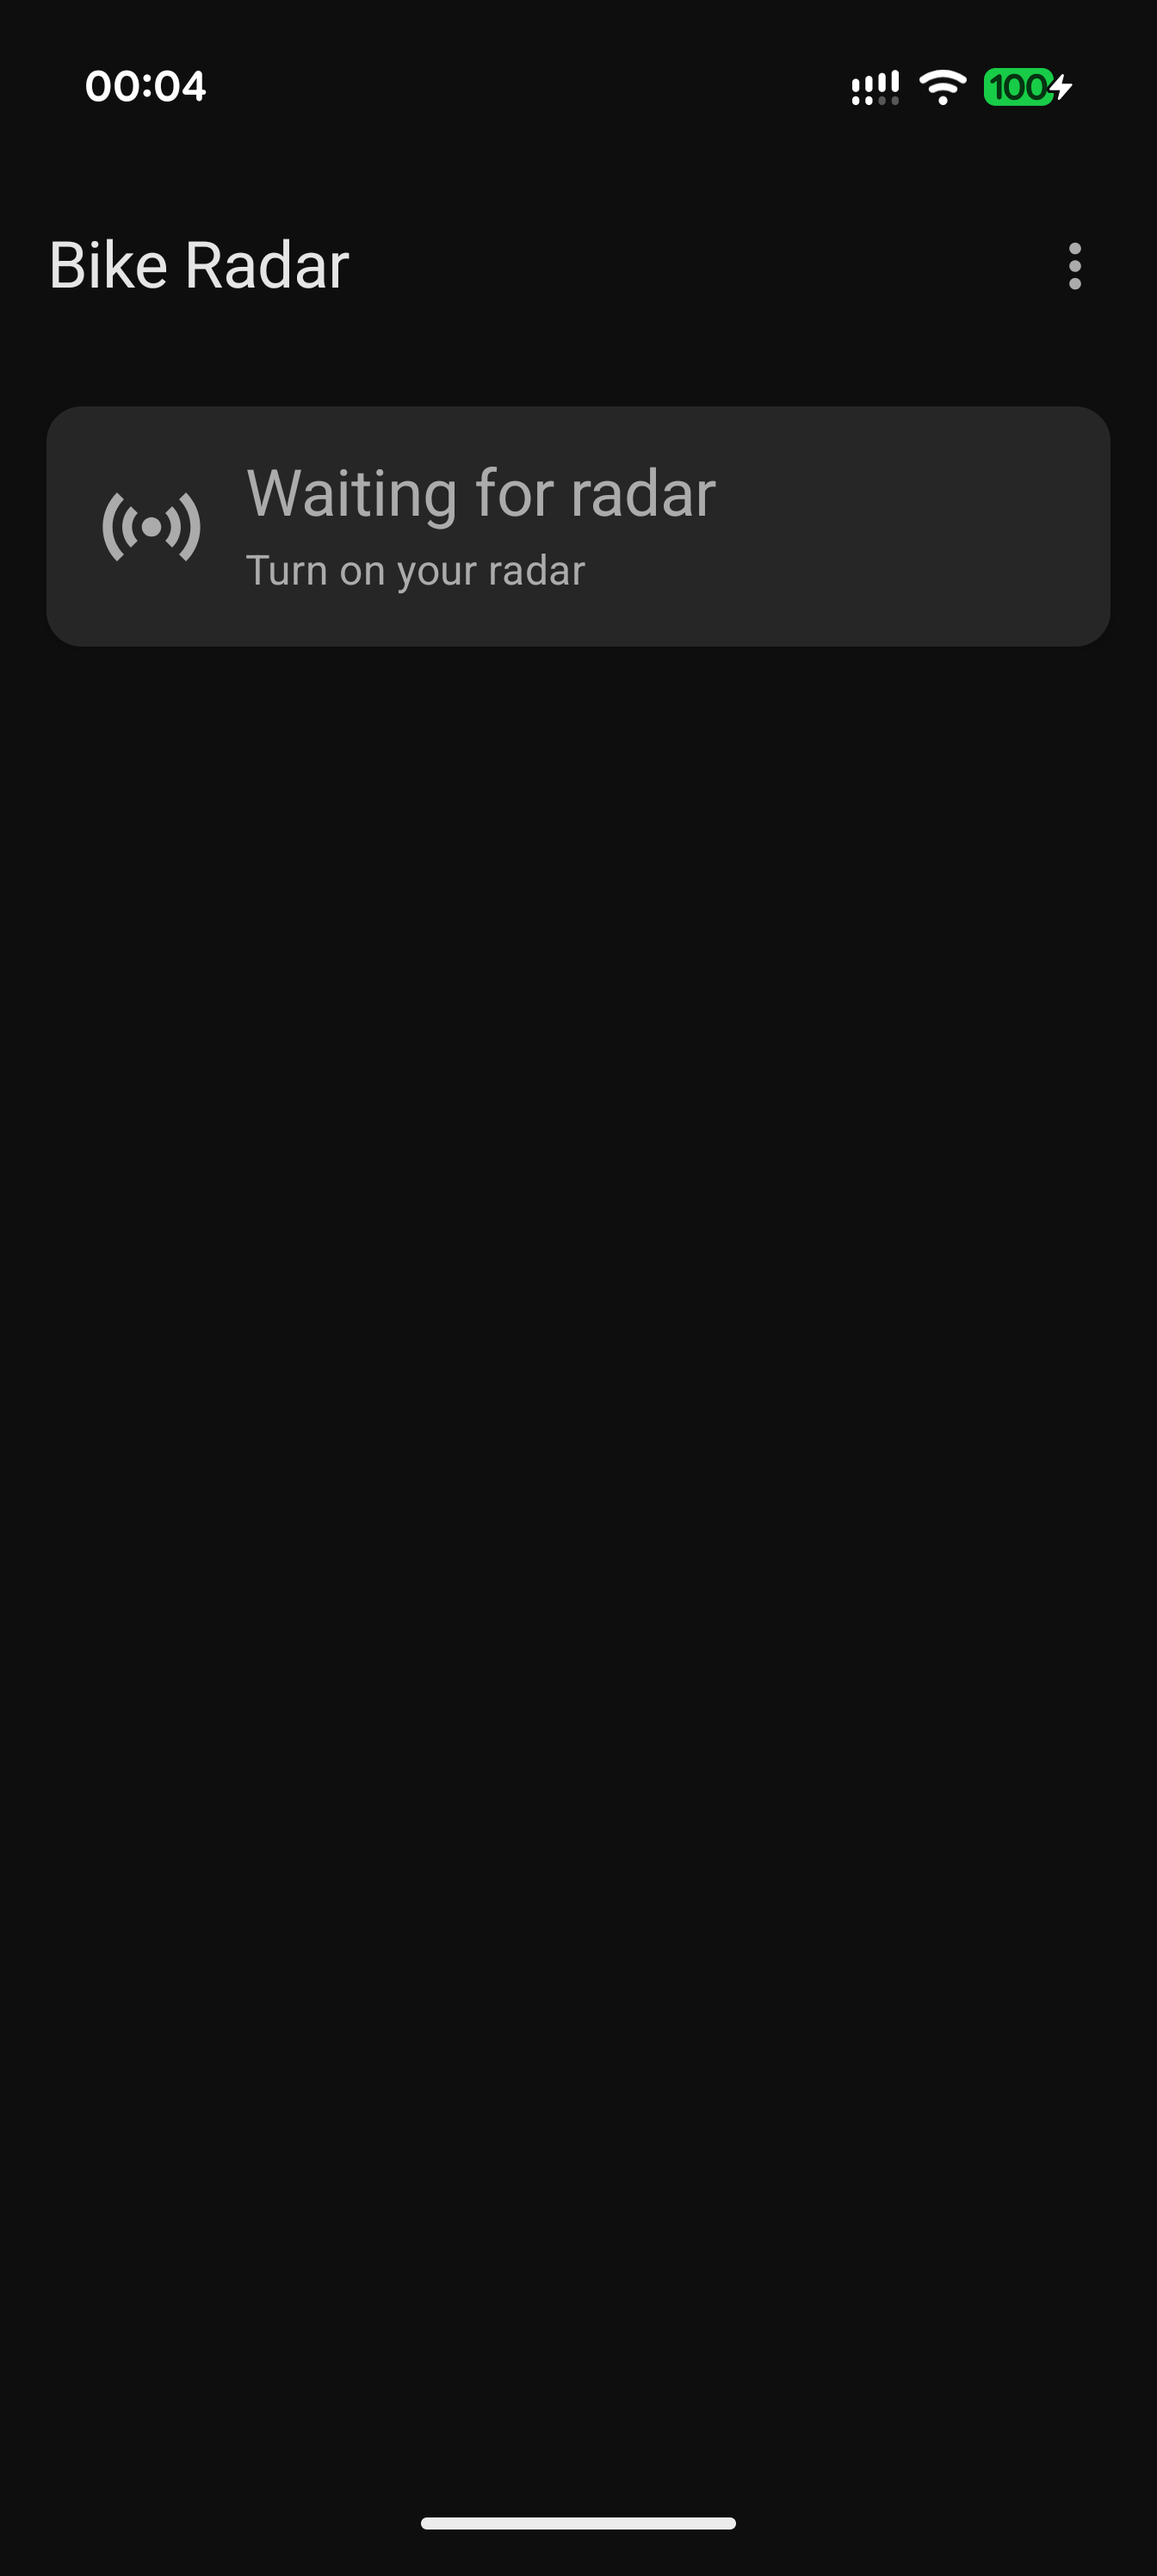
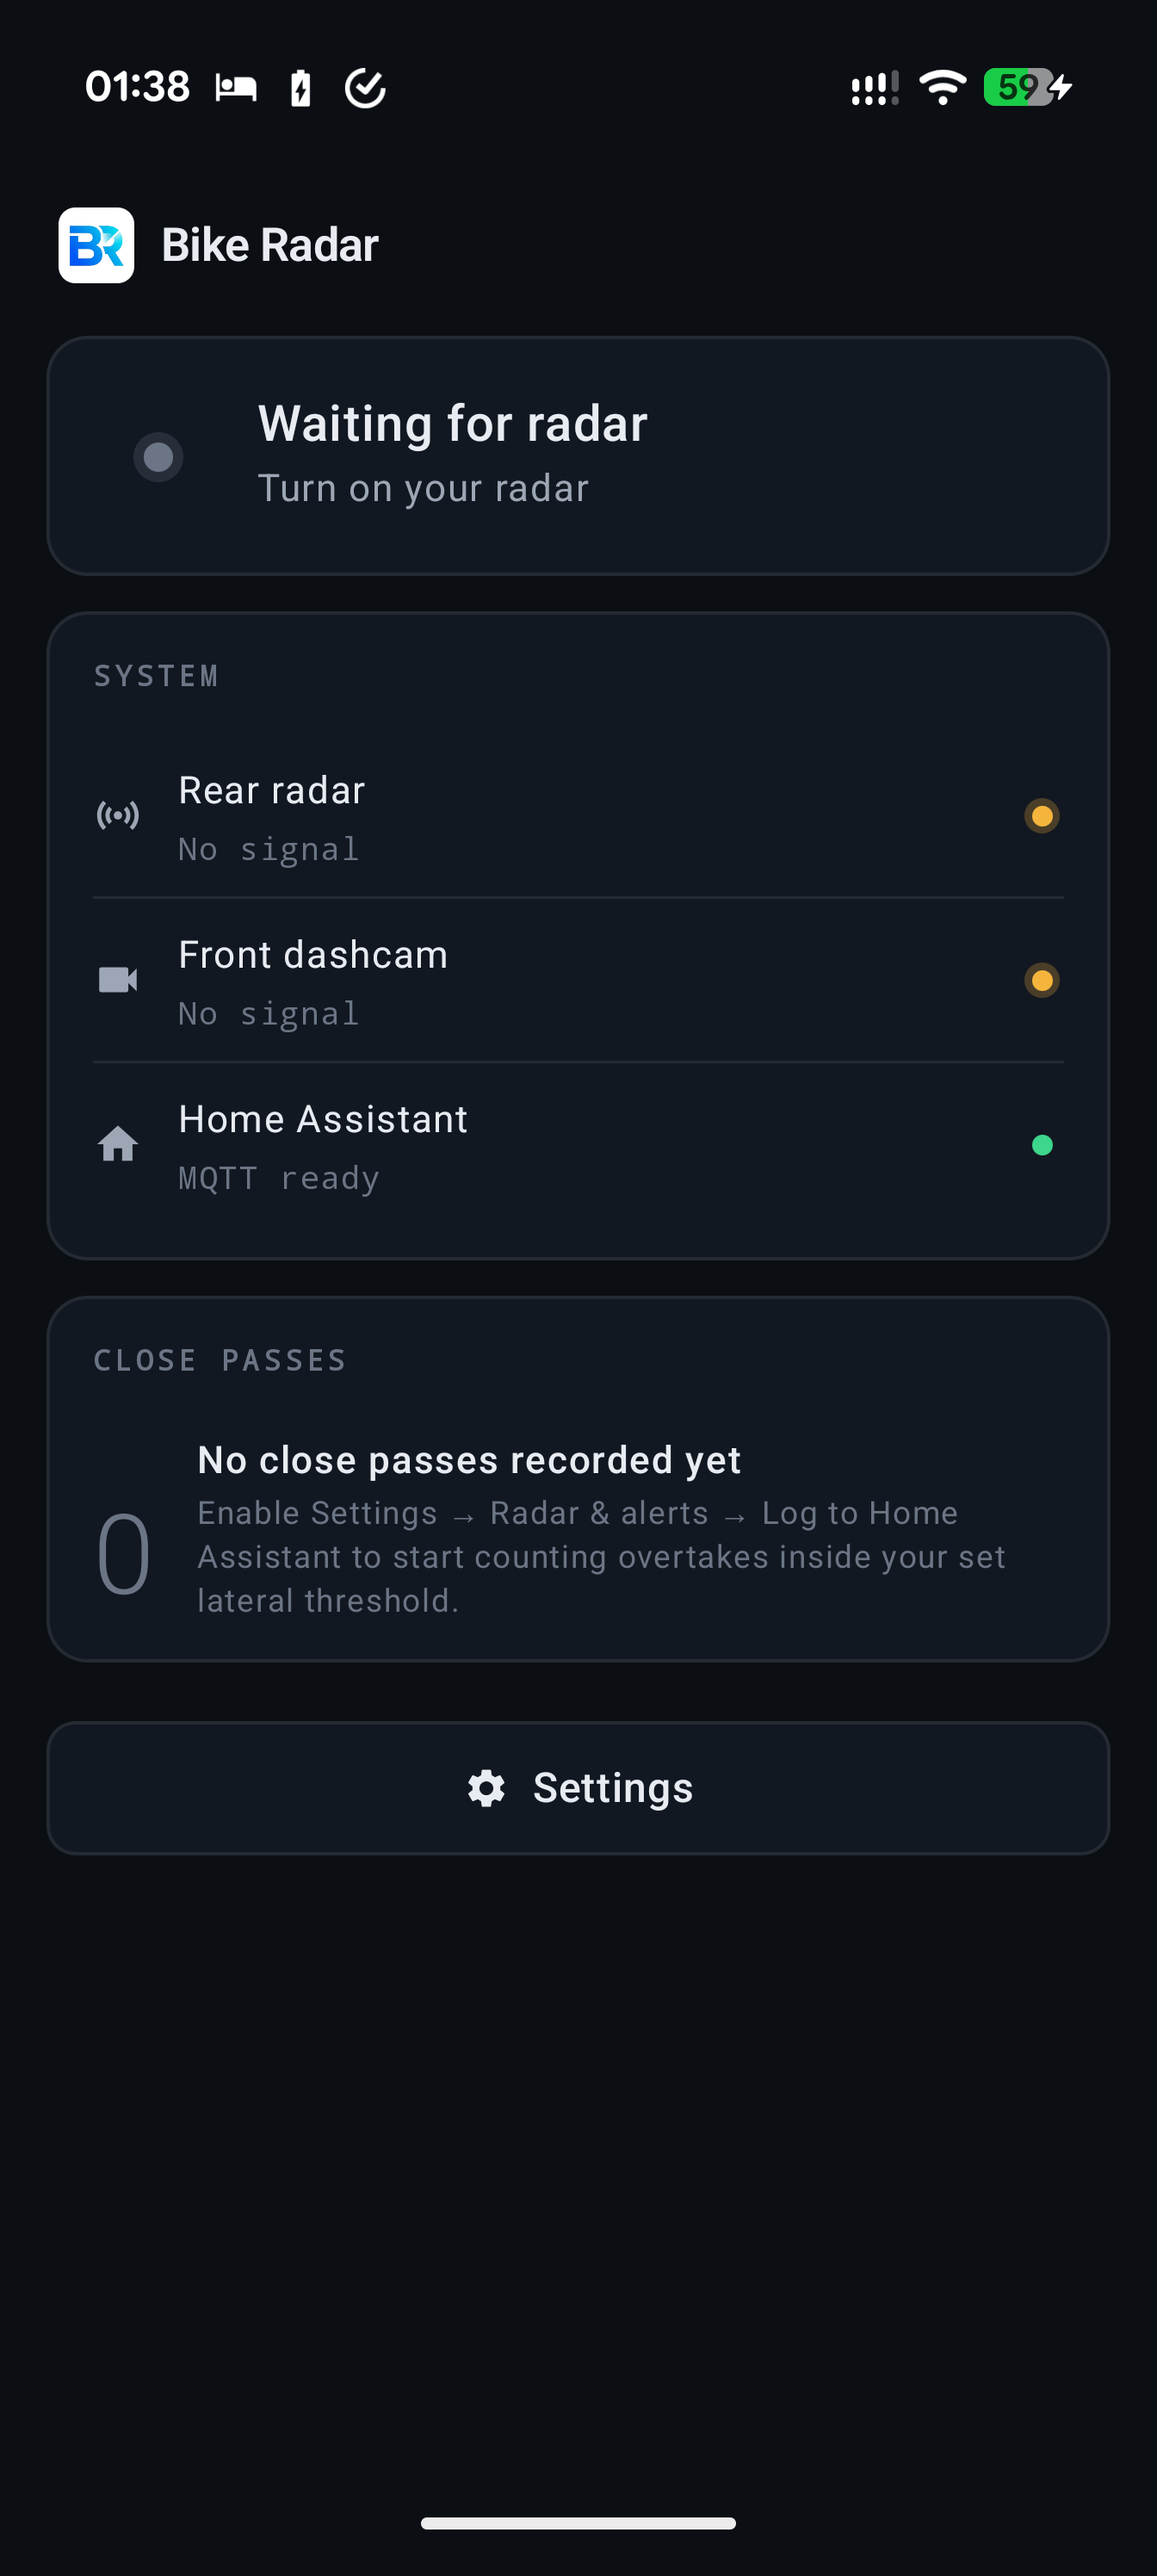
Default the redesigned Main + Settings on, refresh screenshots
Flip `nextUxMain` and `nextUxSettings` to default true. The redesigned
Main + Settings home + sub-screens have been on the device for several
rides without regressions; the flags remain in place for fall-back to
V1 if needed.

`nextUxOnboarding` stays default-off. The redesigned onboarding flow
hasn't been tested at all yet — it's only reachable from a fresh
install or by clearing app data, neither of which has been exercised.

Existing users who have explicitly toggled either flag keep their
explicit value; the only people affected by the flip are fresh
installs and users who never opened the Debug toggle.

Refresh the README screenshot grid:

* Old grid was 8 V1 screens; the redesign exposes 11 distinct
  surfaces (main, settings home, radar & alerts, dashcam, HA,
  permissions, experimental, debug, about, licences, privacy).

* Filenames lose the `settings-` prefix where it was redundant.
  HA screenshot redacts the personal URL to
  `https://homeassistant.local:8123`; bonded device names
  (`VUE-…`, `RearVue8`) are kept since they're public vendor
  model identifiers and the old screenshot set already
  established that convention.

diff --git a/app/src/main/java/es/jjrh/bikeradar/data/Prefs.kt b/app/src/main/java/es/jjrh/bikeradar/data/Prefs.kt
@@ -172,23 +172,24 @@ class Prefs(context: Context) {
         get() = sp.getInt(KEY_CLOSE_PASS_CLOSING_FLOOR_MS, 6).coerceIn(3, 15)
         set(v) { sp.edit().putInt(KEY_CLOSE_PASS_CLOSING_FLOOR_MS, v.coerceIn(3, 15)).apply() }
 
-    /** Per-screen feature flags for the in-progress UX redesign. When
-     *  true, the corresponding NavHost route renders the Next composable
-     *  instead of the original. Default off so freshly-installed builds
-     *  always show the stable UX; the user opts into each redesigned
-     *  screen via the Debug screen, can flip back at any time, and the
-     *  flag (plus the V1 code path) is removed once the screen is
-     *  graduated. */
+    /** Per-screen feature flags for the UX redesign. When true, the
+     *  corresponding NavHost route renders the Next composable instead
+     *  of the original. The user can flip any of these from the Debug
+     *  screen, and each flag (plus its V1 code path) is removed once
+     *  the screen is fully graduated. Defaults reflect the current
+     *  shipping state: Main + Settings (and Debug, which rides the
+     *  Settings flag) ship redesigned; Onboarding still defaults to
+     *  the original flow until it has been ride-tested. */
     var nextUxOnboarding: Boolean
         get() = sp.getBoolean(KEY_NEXT_UX_ONBOARDING, false)
         set(v) { sp.edit().putBoolean(KEY_NEXT_UX_ONBOARDING, v).apply() }
 
     var nextUxMain: Boolean
-        get() = sp.getBoolean(KEY_NEXT_UX_MAIN, false)
+        get() = sp.getBoolean(KEY_NEXT_UX_MAIN, true)
         set(v) { sp.edit().putBoolean(KEY_NEXT_UX_MAIN, v).apply() }
 
     var nextUxSettings: Boolean
-        get() = sp.getBoolean(KEY_NEXT_UX_SETTINGS, false)
+        get() = sp.getBoolean(KEY_NEXT_UX_SETTINGS, true)
         set(v) { sp.edit().putBoolean(KEY_NEXT_UX_SETTINGS, v).apply() }
 
     val isPaused: Boolean get() = System.currentTimeMillis() < pausedUntilEpochMs

diff --git a/README.md b/README.md
@@ -14,13 +14,16 @@ repository for the wire protocol, reference decoders, and unit tests.
 
 <p align="left">
   <img src="screenshots/01-main.png" width="200" alt="Main screen" />
-  <img src="screenshots/02-settings-radar-alerts.png" width="200" alt="Radar and alerts settings" />
-  <img src="screenshots/03-settings-dashcam-walkaway.png" width="200" alt="Dashcam walk-away settings" />
-  <img src="screenshots/04-settings-home-assistant.png" width="200" alt="Home Assistant settings" />
-  <img src="screenshots/05-settings-permissions.png" width="200" alt="Permissions settings" />
-  <img src="screenshots/06-about.png" width="200" alt="About screen" />
-  <img src="screenshots/07-debug.png" width="200" alt="Debug screen (developer mode)" />
-  <img src="screenshots/08-debug-state-log.png" width="200" alt="Debug state log (developer mode)" />
+  <img src="screenshots/02-settings.png" width="200" alt="Settings home" />
+  <img src="screenshots/03-radar-alerts.png" width="200" alt="Radar and alerts settings" />
+  <img src="screenshots/04-dashcam.png" width="200" alt="Dashcam settings" />
+  <img src="screenshots/05-home-assistant.png" width="200" alt="Home Assistant settings" />
+  <img src="screenshots/06-permissions.png" width="200" alt="Permissions settings" />
+  <img src="screenshots/07-experimental.png" width="200" alt="Experimental settings" />
+  <img src="screenshots/08-debug.png" width="200" alt="Debug screen (developer mode)" />
+  <img src="screenshots/09-about.png" width="200" alt="About screen" />
+  <img src="screenshots/10-licences.png" width="200" alt="Open source licences" />
+  <img src="screenshots/11-privacy.png" width="200" alt="Privacy notice" />
 </p>
 
 Static UI screenshots; live radar overlay screenshots coming soon.
